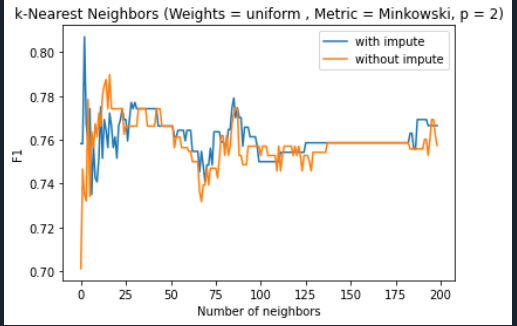
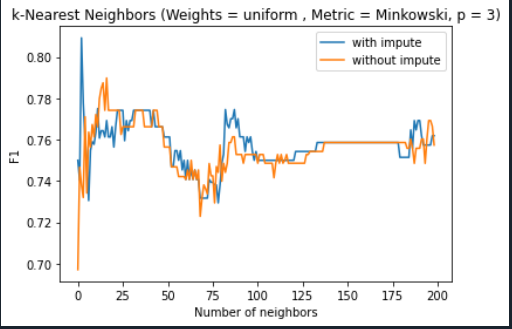
Project4

Changed region(s): [[0.0, 0.0, 1.0, 1.0]]

diff --git a/KNN/KNN_Template.py b/KNN/KNN_Template.py
@@ -33,7 +33,7 @@ np.random.seed(666)
 # =============================================================================
 titanic = pd.read_csv(r'D:\Msc\ML\Projects\Εργασία 4η\titanic.csv')
 
-titanic_drop = titanic.drop(['PassengerId','Name','Ticket','Cabin'],axis= 1,inplace=True)
+titanic = titanic.drop(columns=['PassengerId', 'Name', 'Ticket', 'Cabin'])
 
 #Check the maximum frequency of Embarked
 print(titanic["Embarked"].mode())
@@ -53,22 +53,30 @@ X_imp = df1_imputed
 df2 = titanic.filter(['Survived'], axis = 1)
 y = df2
 
+x_train, x_test, y_train, y_test = model_selection.train_test_split(X, y, random_state = 33 )
+
+#imputed
+x_train_imp, x_test_imp, y_train_imp, y_test_imp = model_selection.train_test_split(X_imp, y, random_state = 33)
+
 # Normalize feature values using MinMaxScaler
 # Fit the scaler using only the train data
 # Transform both train and test data.
 # =============================================================================
 
-
-
 scaler = MinMaxScaler()
-
-x_train, x_test, y_train, y_test = model_selection.train_test_split(X, y, random_state = 33 )
 
 scaler = scaler.fit(x_train)
 x_train = scaler.transform(x_train)
 x_test = scaler.transform(x_test)
 
+
 print('-----------------------------------------------------')
+
+scaler_imp = MinMaxScaler()
+
+scaler_imp = scaler_imp.fit(x_train_imp)
+x_train_imp = scaler_imp.transform(x_train_imp)
+x_test_imp = scaler_imp.transform(x_test_imp)
 
 # Do the following only if you want to do the hard task.
 #
@@ -81,16 +89,9 @@ print('-----------------------------------------------------')
 
 imputer =  KNNImputer(n_neighbors=3)
 
-X_imp = imputer.fit_transform(X_imp)
-
-x_train_imp, x_test_imp, y_train_imp, y_test_imp = model_selection.train_test_split(X_imp, y, random_state = 33)
-
-scaler_imp = MinMaxScaler()
-
-scaler_imp = scaler_imp.fit(x_train_imp)
-x_train_imp = scaler_imp.transform(x_train_imp)
-x_test_imp = scaler_imp.transform(x_test_imp)
-
+imputer.fit_transform(x_train_imp)
+x_train_imp = imputer.transform(x_train_imp)
+x_test_imp = imputer.transform(x_test_imp)
 
 # Create your KNeighborsClassifier models for different combinations of parameters
 # Train the model and predict. Save the performance metrics.
@@ -125,7 +126,6 @@ print("Precision score: %.6f" % metrics.precision_score(y_test_imp, y_predicted_
 print("F1 score: %.6f" % metrics.f1_score(y_test_imp,y_predicted_imp))
 
 
-
 n_neighbors = np.arange(1, 200)
 f1_no_impute = []
 f1_impute = []
@@ -137,13 +137,13 @@ f1_impute = []
 for n in n_neighbors:
   
     #Not imputed
-    model.set_params(n_neighbors=n , p= 2, weights = 'uniform')
+    model.set_params(n_neighbors=n , p= 3, weights = 'uniform')
     model.fit(x_train, y_train.values.ravel())
     y_predicted = model.predict(x_test)
     f1_no_impute.append(metrics.f1_score(y_test,y_predicted)) 
    
     #imputed
-    model_imp.set_params(n_neighbors=n , p= 2 , weights = 'uniform')
+    model_imp.set_params(n_neighbors=n , p= 3 , weights = 'uniform')
     model_imp.fit(x_train_imp, y_train_imp.values.ravel())
     y_predicted_imp = model_imp.predict(x_test_imp)
     f1_impute.append(metrics.f1_score(y_test_imp,y_predicted_imp)) 
@@ -152,7 +152,7 @@ for n in n_neighbors:
 # Plot the F1 performance results for any combination οf parameter values of your choice.
 # If you want to do the hard task, also plot the F1 results with/without imputation (in the same figure)
 # =============================================================================
-plt.title('k-Nearest Neighbors (Weights = uniform , Metric = Minkowski, p = 2)')
+plt.title('k-Nearest Neighbors (Weights = uniform , Metric = Minkowski, p = 3)')
 plt.plot(f1_impute, label='with impute')
 plt.plot(f1_no_impute, label='without impute')
 plt.legend()
